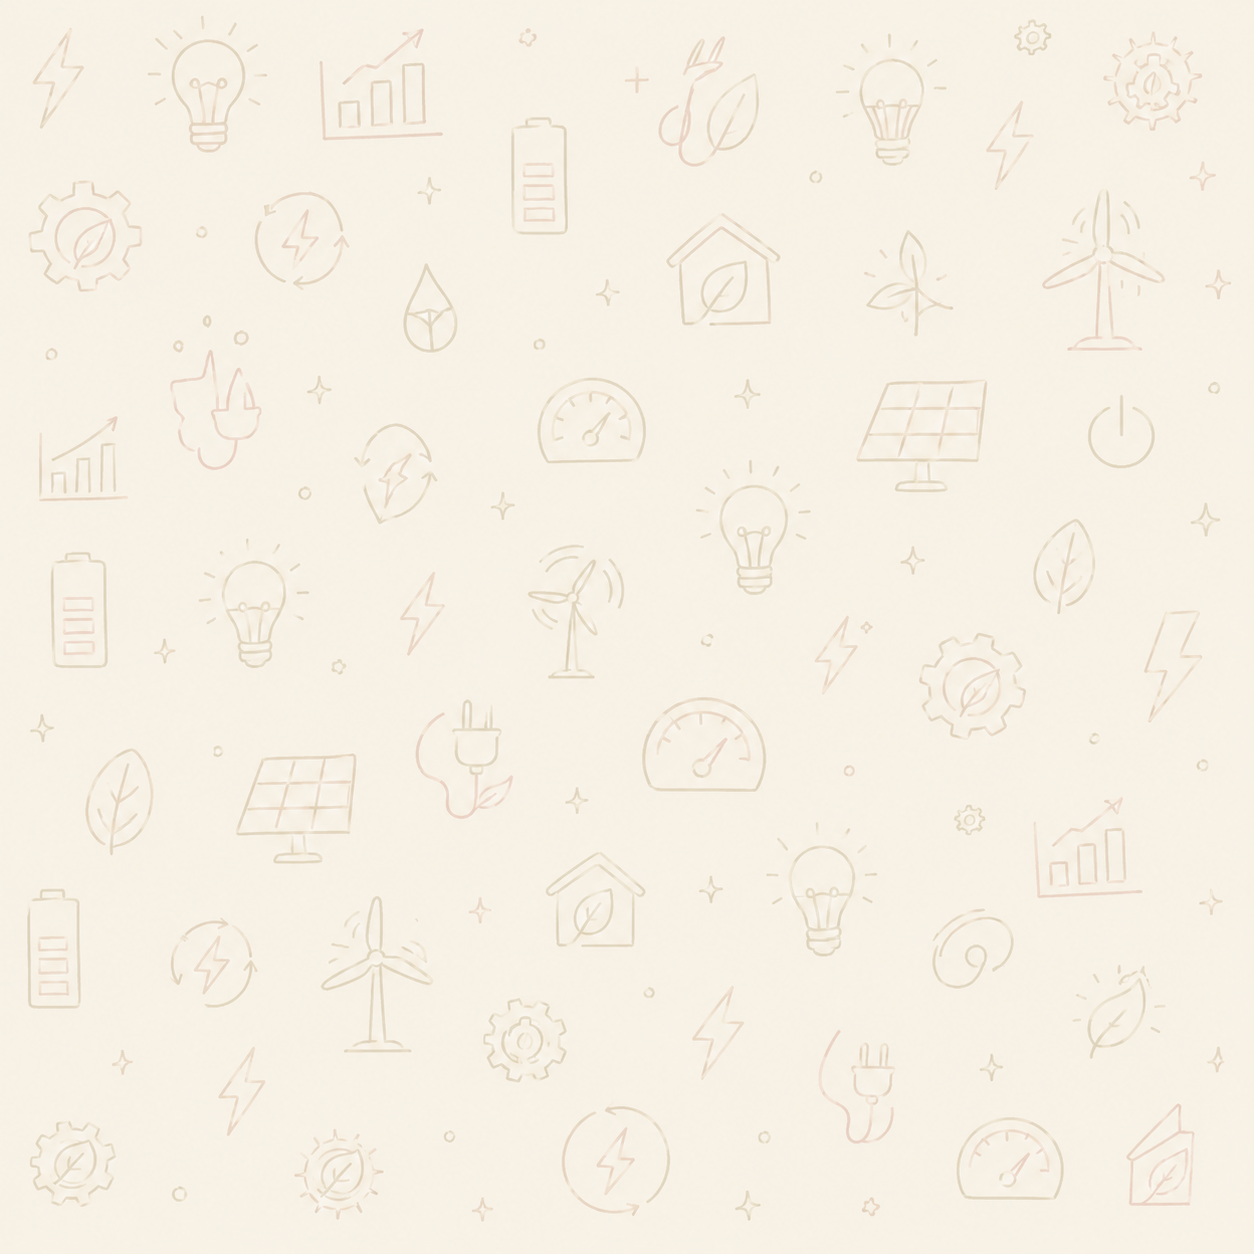
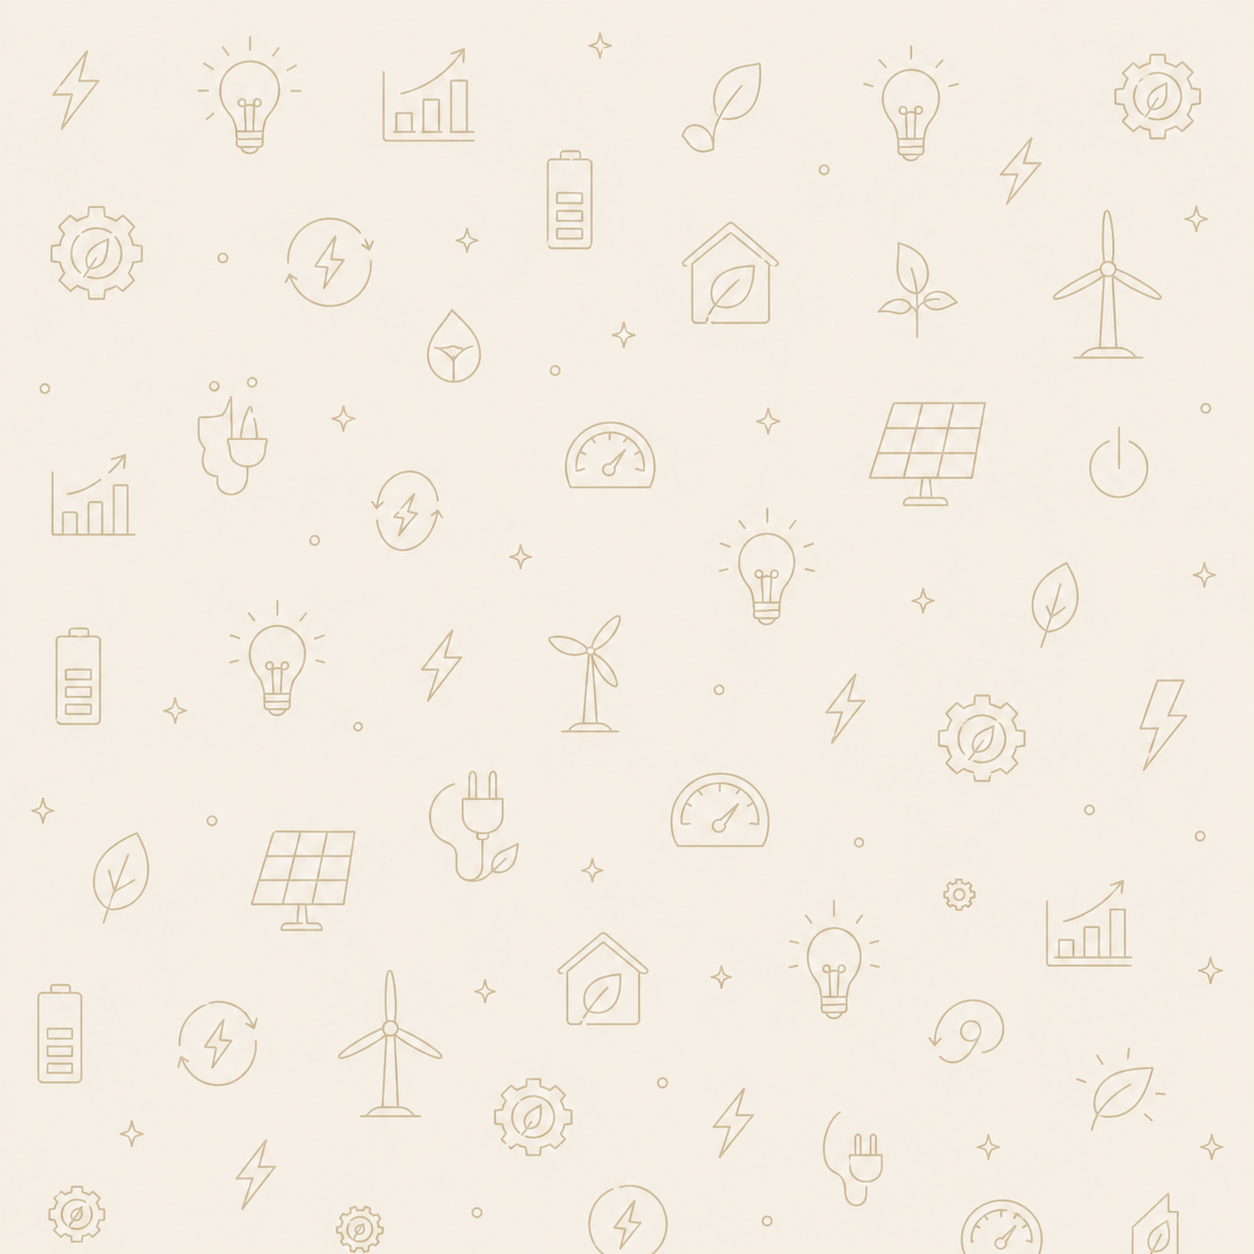
Changed doodle image, added background blur and made login form translucent in login page

diff --git a/lib/pages/login_page.dart b/lib/pages/login_page.dart
@@ -1,3 +1,5 @@
+import 'dart:ui';
+
 import 'package:flutter/material.dart';
 import 'package:font_awesome_flutter/font_awesome_flutter.dart';
 import 'package:novalume_app/constants/colors.dart';
@@ -55,7 +57,7 @@ class _LoginPageState extends State<LoginPage> {
             colors: [
               Colors.transparent,
               Colors.transparent,
-              KColors.primaryColorDark,
+              KColors.primaryColorLight,
             ],
             radius: 1.4,
           ).createShader(bounds),
@@ -70,117 +72,126 @@ class _LoginPageState extends State<LoginPage> {
               ),
               Positioned.fill(
                 child: SingleChildScrollView(
-                  child: Column(
-                    children: [
-                      SizedBox(
-                        height: 220,
-                        child: Container(
-                          alignment: Alignment.bottomCenter,
-                          child: Text('Sign In', style: KTextStyles.bold36),
+                  child: BackdropFilter(
+                    filter: ImageFilter.blur(sigmaX: 1, sigmaY: 1),
+                    child: Column(
+                      children: [
+                        SizedBox(
+                          height: 220,
+                          child: Container(
+                            alignment: Alignment.bottomCenter,
+                            child: Text('Sign In', style: KTextStyles.bold36),
+                          ),
                         ),
-                      ),
 
-                      Padding(
-                        padding: const EdgeInsetsGeometry.all(20),
-                        child: Column(
-                          children: [
-                            Container(
-                              decoration: BoxDecoration(
-                                gradient: LinearGradient(
-                                  colors: [
-                                    KColors.secondaryColorLight,
-                                    KColors.secondaryColorMedium,
+                        Padding(
+                          padding: const EdgeInsetsGeometry.all(20),
+                          child: Column(
+                            children: [
+                              Container(
+                                decoration: BoxDecoration(
+                                  backgroundBlendMode: BlendMode.hardLight,
+                                  gradient: LinearGradient(
+                                    colors: [
+                                      KColors.secondaryColorLight.withAlpha(
+                                        150,
+                                      ),
+                                      KColors.secondaryColorMedium.withAlpha(
+                                        150,
+                                      ),
+                                    ],
+                                    begin: Alignment.topCenter,
+                                    end: Alignment.bottomCenter,
+                                  ),
+                                  borderRadius: BorderRadius.circular(32.0),
+                                  border: Border.all(
+                                    color: KColors.primaryColorDark2,
+                                    width: 1.2,
+                                  ),
+                                  boxShadow: [
+                                    BoxShadow(
+                                      color: KColors.defaultShadowColor,
+                                      blurRadius: 16.0,
+                                      offset: const Offset(0, 5),
+                                    ),
                                   ],
-                                  begin: Alignment.topCenter,
-                                  end: Alignment.bottomCenter,
                                 ),
-                                borderRadius: BorderRadius.circular(32.0),
-                                border: Border.all(
-                                  color: KColors.primaryColorDark2,
-                                  width: 1.2,
+                                padding: const EdgeInsets.symmetric(
+                                  horizontal: 20.0,
+                                  vertical: 24.0,
                                 ),
-                                boxShadow: [
-                                  BoxShadow(
-                                    color: KColors.defaultShadowColor,
-                                    blurRadius: 16.0,
-                                    offset: const Offset(0, 5),
-                                  ),
-                                ],
-                              ),
-                              padding: const EdgeInsets.symmetric(
-                                horizontal: 20.0,
-                                vertical: 24.0,
-                              ),
-                              child: Column(
-                                crossAxisAlignment: CrossAxisAlignment.stretch,
-                                children: [
-                                  LoginTextField(
-                                    controller: _emailController,
-                                    hintText: 'Enter your Email',
-                                    prefixIcon: Icons.mail_rounded,
-                                    keyboardType: TextInputType.emailAddress,
-                                  ),
-                                  const SizedBox(height: 16.0),
-                                  LoginTextField(
-                                    controller: _passwordController,
-                                    hintText: 'Enter your Password',
-                                    prefixIcon: Icons.lock_rounded,
-                                    isPassword: true,
-                                  ),
-                                  const SizedBox(height: 16.0),
-                                  Align(
-                                    alignment: Alignment.centerRight,
-                                    child: GestureDetector(
-                                      onTap: onForgotPassword,
-                                      child: Text(
-                                        'Forgot Password?',
-                                        style: KTextStyles.bold16,
+                                child: Column(
+                                  crossAxisAlignment:
+                                      CrossAxisAlignment.stretch,
+                                  children: [
+                                    LoginTextField(
+                                      controller: _emailController,
+                                      hintText: 'Enter your Email',
+                                      prefixIcon: Icons.mail_rounded,
+                                      keyboardType: TextInputType.emailAddress,
+                                    ),
+                                    const SizedBox(height: 16.0),
+                                    LoginTextField(
+                                      controller: _passwordController,
+                                      hintText: 'Enter your Password',
+                                      prefixIcon: Icons.lock_rounded,
+                                      isPassword: true,
+                                    ),
+                                    const SizedBox(height: 16.0),
+                                    Align(
+                                      alignment: Alignment.centerRight,
+                                      child: GestureDetector(
+                                        onTap: onForgotPassword,
+                                        child: Text(
+                                          'Forgot Password?',
+                                          style: KTextStyles.bold16,
+                                        ),
                                       ),
                                     ),
-                                  ),
-                                  const SizedBox(height: 8.0),
-                                  Divider(
-                                    color: KColors.dividerColor,
-                                    thickness: 2.0,
-                                    height: 24,
-                                  ),
-                                  const SizedBox(height: 8.0),
-                                  LoginPrimaryButton(onPressed: onLogin),
-                                  const SizedBox(height: 24.0),
-                                  VerticalIconLabelButton(
-                                    faIcon: FaIcon(
-                                      FontAwesomeIcons.google,
-                                      size: KIconStyles.default40,
+                                    const SizedBox(height: 8.0),
+                                    Divider(
+                                      color: KColors.dividerColor,
+                                      thickness: 2.0,
+                                      height: 24,
                                     ),
-                                    text: Text(
-                                      "Google",
-                                      style: KTextStyles.bold16,
+                                    const SizedBox(height: 8.0),
+                                    LoginPrimaryButton(onPressed: onLogin),
+                                    const SizedBox(height: 24.0),
+                                    VerticalIconLabelButton(
+                                      faIcon: FaIcon(
+                                        FontAwesomeIcons.google,
+                                        size: KIconStyles.default40,
+                                      ),
+                                      text: Text(
+                                        "Google",
+                                        style: KTextStyles.bold16,
+                                      ),
+                                      onTap: onGoogleLogin,
                                     ),
-                                    onTap: onGoogleLogin,
+                                  ],
+                                ),
+                              ),
+                              SizedBox(height: 16),
+                              Row(
+                                mainAxisAlignment: MainAxisAlignment.center,
+                                spacing: 16,
+                                children: [
+                                  Text(
+                                    "Don't have an account?",
+                                    style: KTextStyles.bold16,
+                                  ),
+                                  LoginSecondaryButton(
+                                    text: 'Sign Up',
+                                    onPressed: onSignUp,
                                   ),
                                 ],
                               ),
-                            ),
-                            SizedBox(height: 16),
-                            Row(
-                              mainAxisAlignment: MainAxisAlignment.center,
-                              spacing: 16,
-                              children: [
-                                Text(
-                                  "Don't have an account?",
-                                  style: KTextStyles.bold16,
-                                ),
-                                LoginSecondaryButton(
-                                  text: 'Sign Up',
-                                  onPressed: onSignUp,
-                                ),
-                              ],
-                            ),
-                            SizedBox(height: 100),
-                          ],
+                              SizedBox(height: 100),
+                            ],
+                          ),
                         ),
-                      ),
-                    ],
+                      ],
+                    ),
                   ),
                 ),
               ),

diff --git a/lib/main.dart b/lib/main.dart
@@ -71,7 +71,7 @@ class MainApp extends StatelessWidget {
           style: IconButton.styleFrom(foregroundColor: KColors.whiteTextColor),
         ),
       ),
-      initialRoute: '/main',
+      initialRoute: '/login',
       routes: {
         '/login': (context) => LoginPage(),
         '/main': (context) => const WidgetTree(),